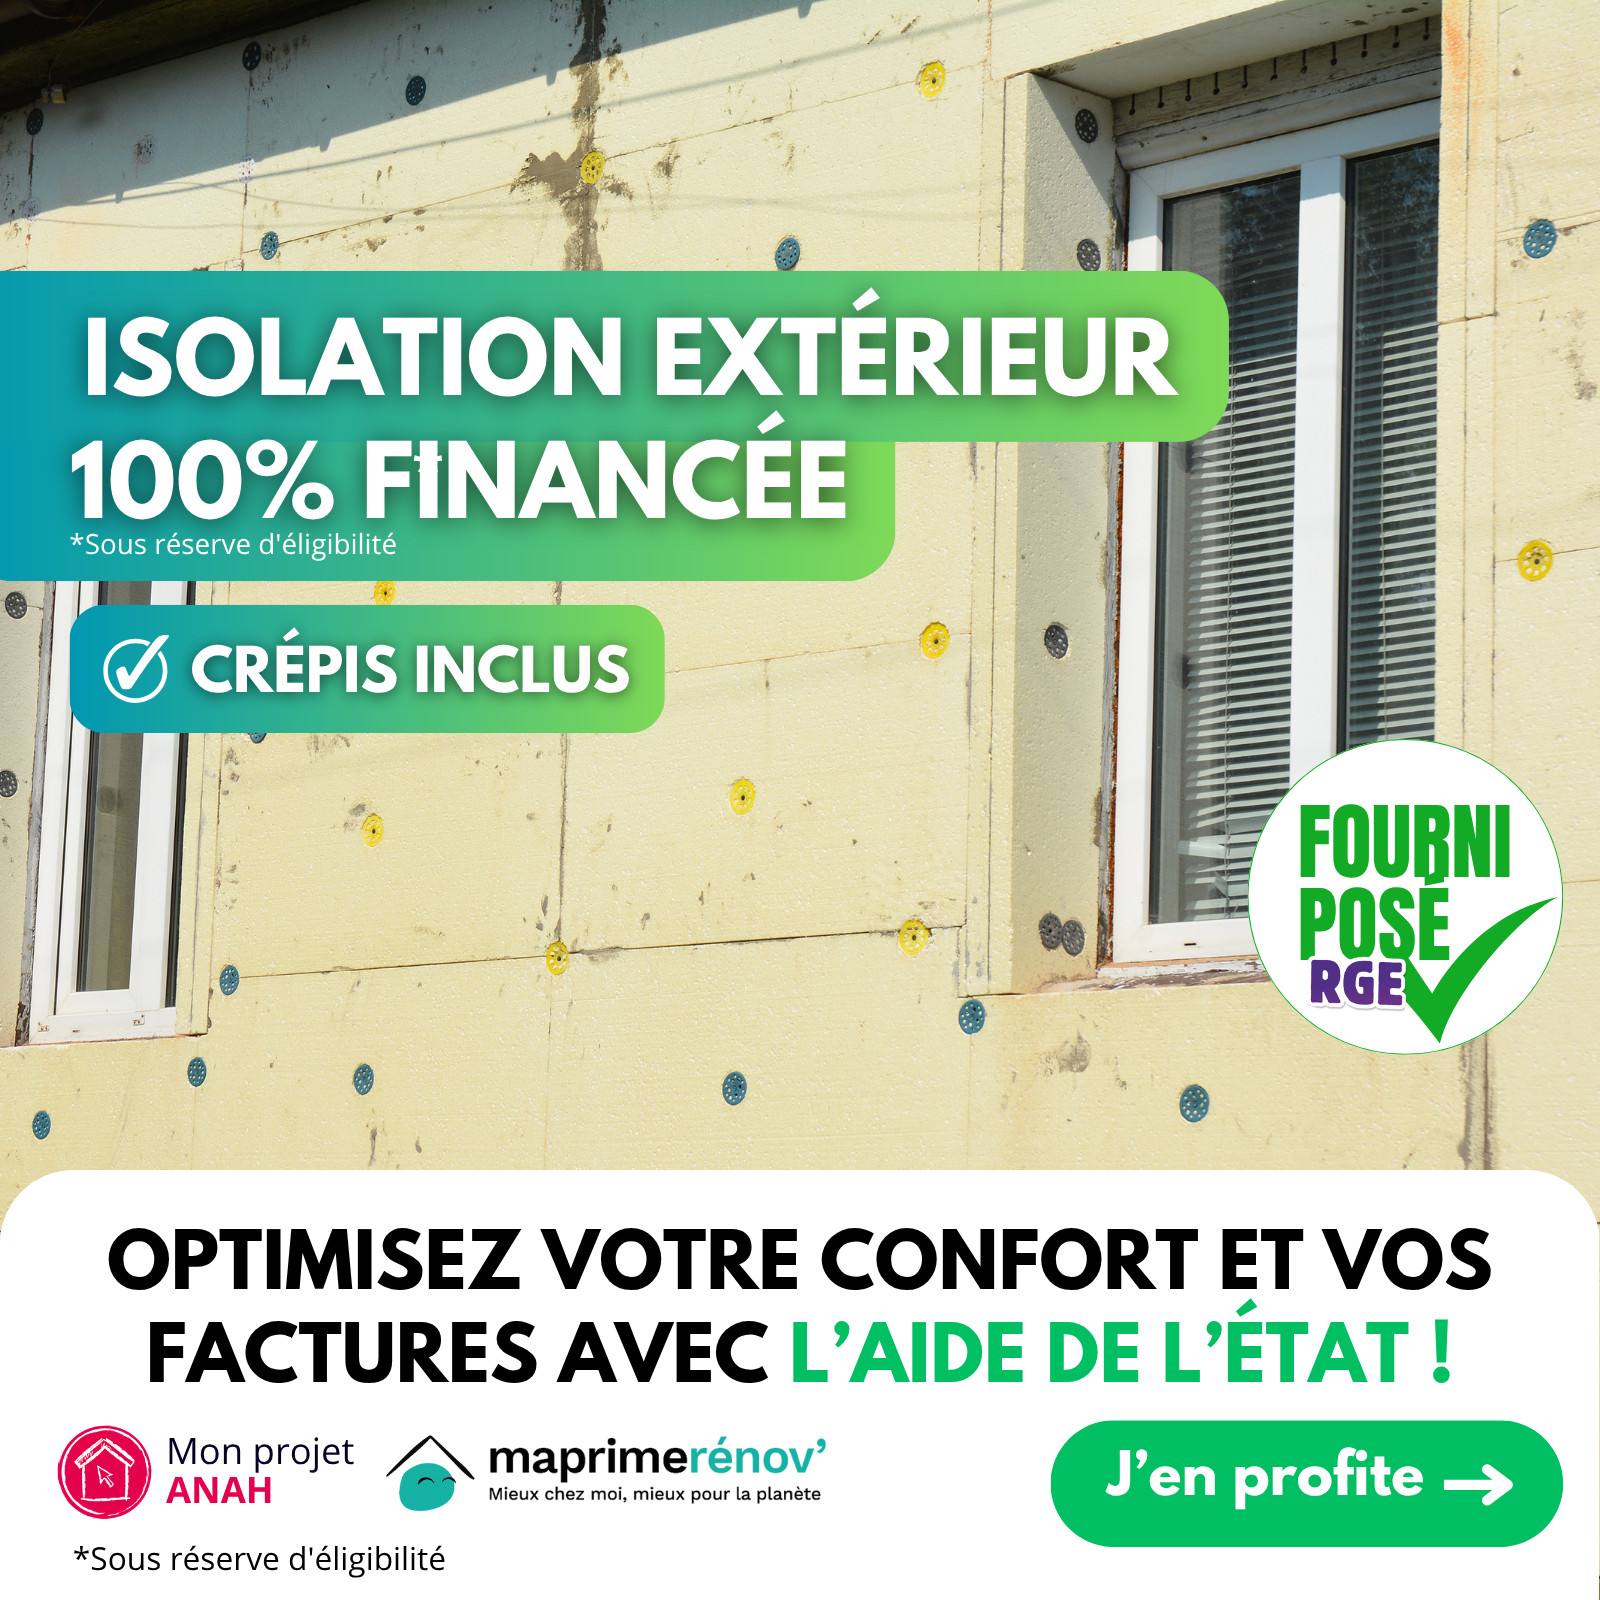
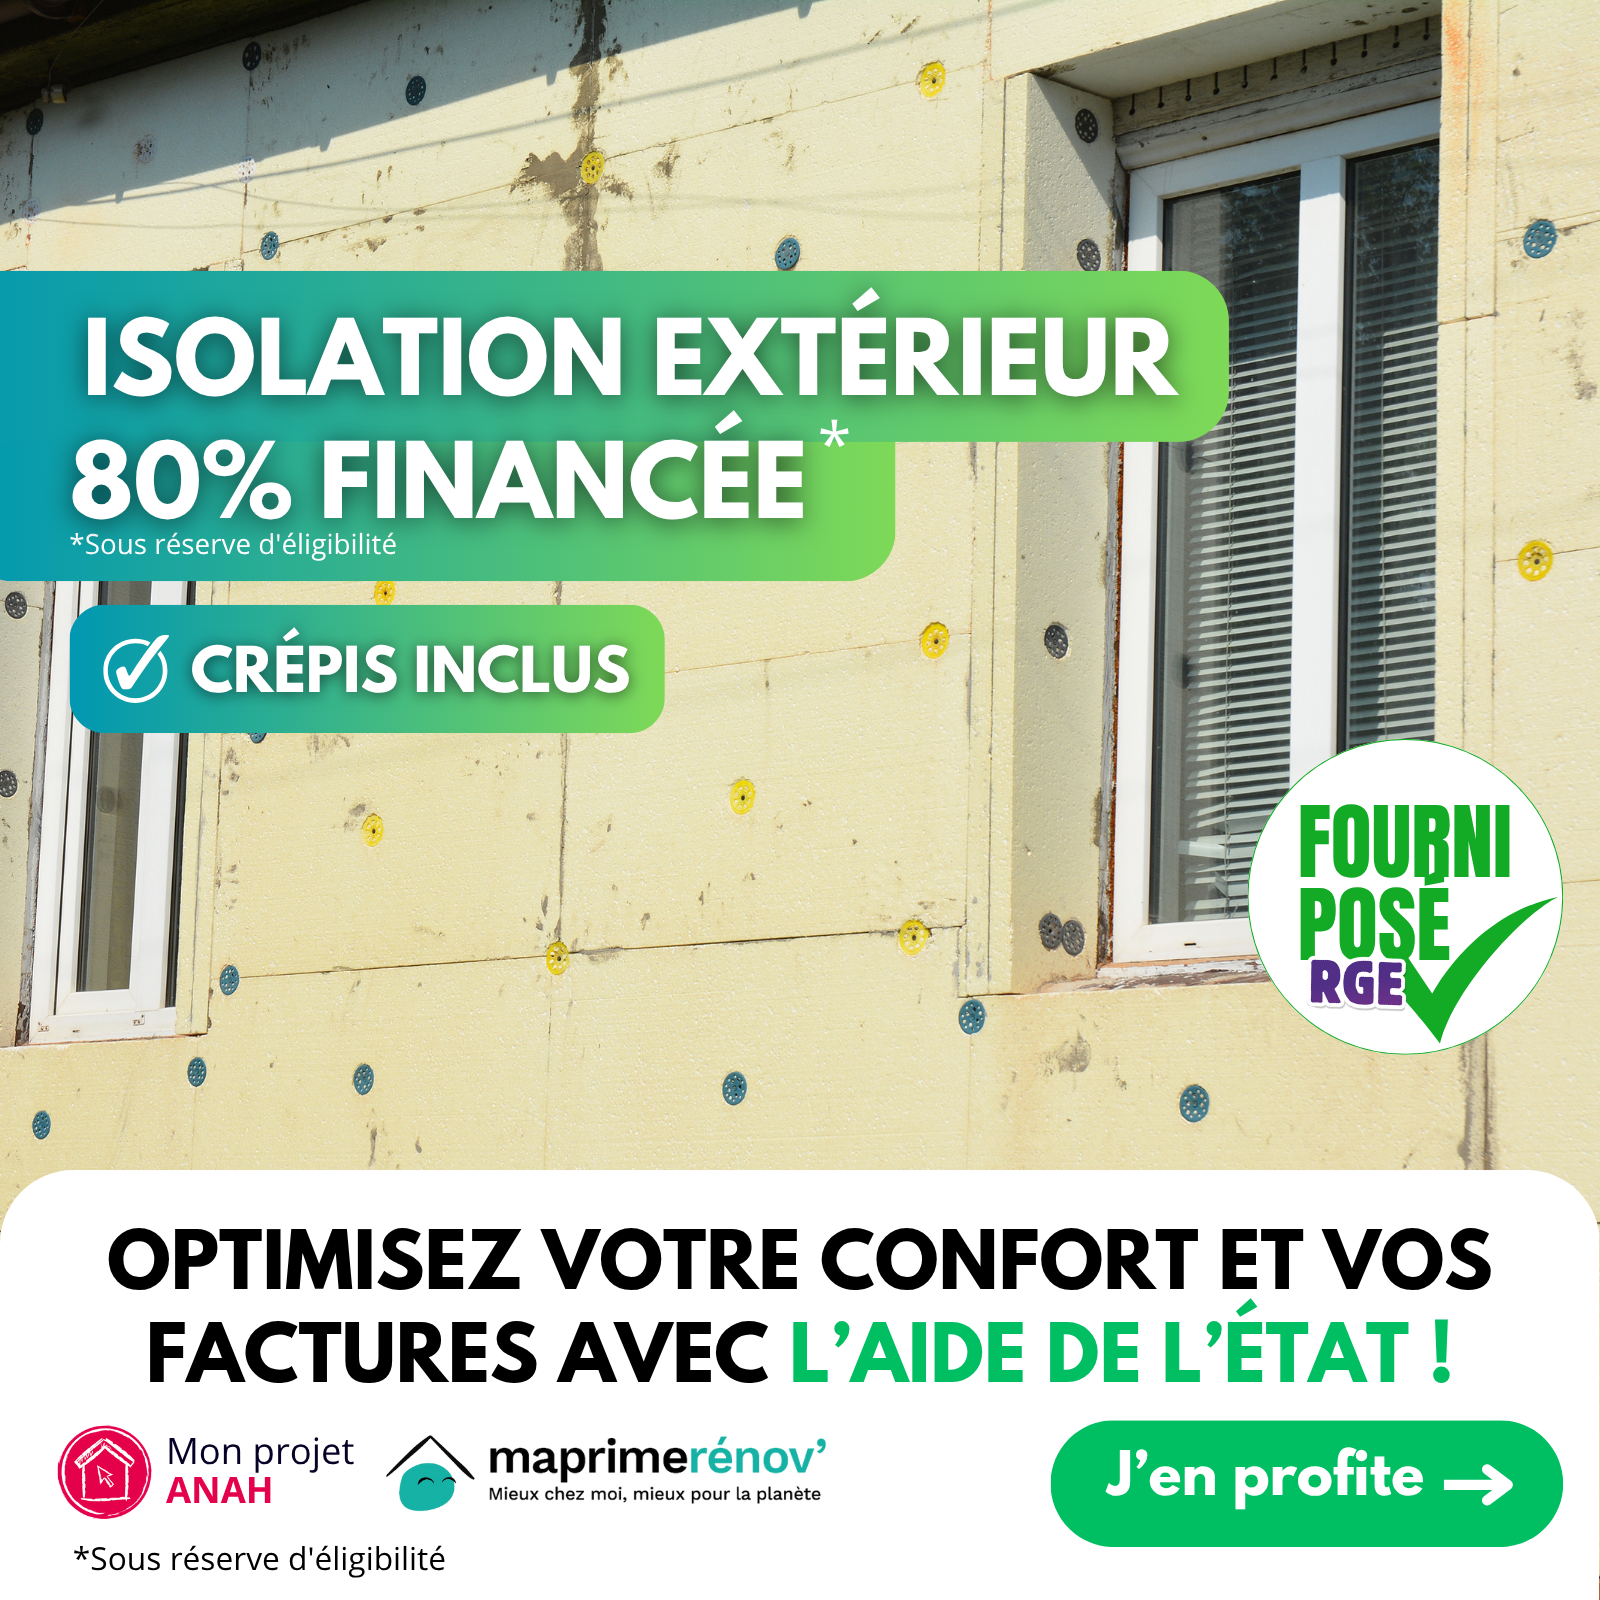
Update images

Changed region(s): [[0.0312, 0.25, 0.5312, 0.3438]]

diff --git a/src/routes/+page.svelte b/src/routes/+page.svelte
@@ -13,9 +13,9 @@
 	<div class="w-full sm:w-11/12 xl:w-10/12 2xl:w-7/12 grid grid-cols-1 lg:grid-cols-2 p-5 gap-3">
 		<div class="flex flex-col gap-5">
 			<TexxtSlider></TexxtSlider>
-			<h2 class="text-center lg:text-left text-3xl md:text-4xl xl:text-6xl font-extrabold">
+			<h1 class="text-center lg:text-left text-3xl md:text-4xl xl:text-6xl font-extrabold">
 				Profitez des <span class="text-green-500 italic">Aides de l'Etat</span> pour vos Travaux d'isolation
-			</h2>
+			</h1>
 			<p class="text-center lg:text-left text-lg sm:text-xl">Savez-vous qu'en isolant entièrement votre maison, vous pouvez réaliser jusqu'à <span class="font-bold underline decoration-green-500 decoration-4 underline-offset-4">70% d'économies </span> d'énergie ?</p>
 			<div class="flex justify-end">
 				<img src="arrow.png" alt="" class="hidden lg:block w-[80px] -mt-10 -mr-10 z-10">
@@ -142,27 +142,27 @@
 	<div class="w-full sm:w-11/12 xl:w-10/12 2xl:w-7/12 grid grid-cols-2 sm:grid-cols-3 gap-3">
 		<div class="flex flex-col justify-center items-center bg-white p-5 shadow-md rounded-xl">
 			<img src="./aides.png" class="w-20" alt="">
-			<p class="text-lg text-center"><span class="font-bold text-green-500">Jusqu'a 80%</span> financer par les aides de l'Etat</p>
+			<p class="text-center sm:mx-5"><span class="font-bold text-green-500">Jusqu'a 80%</span> financer par les aides de l'Etat.</p>
 		</div>
 		<div class="flex flex-col justify-center items-center bg-white p-5 shadow-md rounded-xl">
 			<img src="./valorisation.png" class="w-20" alt="">
-			<p class="text-lg text-center"><span class="font-bold text-green-500">Valorisation</span> de votre logement <span class="font-bold text-green-500">de 15 à 25%</span></p>
+			<p class="text-center sm:mx-5"><span class="font-bold text-green-500">Valorisation</span> de votre logement. <span class="font-bold text-green-500">de 15 à 25%</span></p>
 		</div>
 		<div class="flex flex-col justify-center items-center bg-white p-5 shadow-md rounded-xl">
 			<img src="./economy.png" class="w-20" alt="">
-			<p class="text-lg text-center"><span class="font-bold text-green-500">70% d'économies</span> sur votre facture d'énergie</p>
+			<p class="text-center sm:mx-5"><span class="font-bold text-green-500">70% d'économies</span> sur votre facture d'énergie.</p>
 		</div>
 		<div class="flex flex-col justify-center items-center bg-white p-5 shadow-md rounded-xl">
 			<img src="./gain_de_class.png" class="w-20" alt="">
-			<p class="text-lg text-center"><span class="font-bold text-green-500">Gain de classes énergétiques</span> sur votre DPE</p>
+			<p class="text-center sm:mx-5"><span class="font-bold text-green-500">Gain de classes énergétiques</span> sur votre DPE.</p>
 		</div>
 		<div class="flex flex-col justify-center items-center bg-white p-5 shadow-md rounded-xl">
 			<img src="./sans_avance.png" class="w-20" alt="">
-			<p class="text-lg text-center"><span class="font-bold text-green-500">Pas d'avance</span> de frais à faire sur vos travaux</p>
+			<p class="text-center sm:mx-5"><span class="font-bold text-green-500">Pas d'avance</span> de frais à faire sur vos travaux.</p>
 		</div>
 		<div class="flex flex-col justify-center items-center bg-white p-5 shadow-md rounded-xl">
 			<img src="./sans_impcat.png" class="w-20" alt="">
-			<p class="text-lg text-center"><span class="font-bold text-green-500">Travaux sans impact</span> sur votre vie quotidienne</p>
+			<p class="text-center sm:mx-5"><span class="font-bold text-green-500">Travaux sans impact</span> sur votre vie quotidienne.</p>
 		</div>
 	</div>
 </div>

diff --git a/src/app.html b/src/app.html
@@ -4,13 +4,13 @@
 		<meta charset="utf-8" />
 		<link rel="icon" href="%sveltekit.assets%/favicon.png" />
 		<meta name="viewport" content="width=device-width, initial-scale=1" />
-		<meta property="og:title" content="Aides de l'Etat pour vos travaux d'ampleur">
+		<meta property="og:title" content="Aides de l'Etat pour vos travaux d'isolation">
 		<meta property="og:site_name" content="Groupe Dumont">
-		<meta property="og:description" content="Découvrez les aides de l'État pour financer vos travaux d'ampleur : rénovation énergétique, mise aux normes, isolation, et plus encore.">
+		<meta property="og:description" content="Découvrez les aides de l'État pour financer vos travaux d'isolation.">
 		<meta property="og:type" content="website">
 		<meta property="og:image" content="https://subvention.groupedumont.fr/cover-dumont.png">
-		<title>Groupe Dumont - Aides de l'Etat pour vos travaux d'ampleur</title>
-		<meta name="description" content="Découvrez les aides de l'État pour financer vos travaux d'ampleur : rénovation énergétique, mise aux normes, isolation, et plus encore.">
+		<title>Aides de l'Etat pour vos travaux d'ampleur - Groupe Dumont</title>
+		<meta name="description" content="Découvrez les aides de l'État pour financer vos travaux d'isolation.">
 
 		%sveltekit.head%
 	</head>

diff --git a/src/routes/api/send-email/+server.js b/src/routes/api/send-email/+server.js
@@ -22,9 +22,9 @@ export async function POST({ request }) {
     from: `"ISOLATION - GROUPE DUMONT" <${process.env.SMTP_USER}>`,
     to: 'contact@groupedumont.fr',
     cc: 'subvention@groupedumont.fr',
-    subject: `Nouveau lead ${data.informations.prenom} ${data.informations.nom}`,
+    subject: `[ISOLATION] Nouveau lead ${data.informations.prenom} ${data.informations.nom}`,
     html: `
-      <h2>Nouveau lead reçu</h2>
+      <h2>Nouvelle demande d'isolation  </h2>
 
       <table style="border-collapse: collapse; width: 100%; max-width: 600px;">
         <tr>
